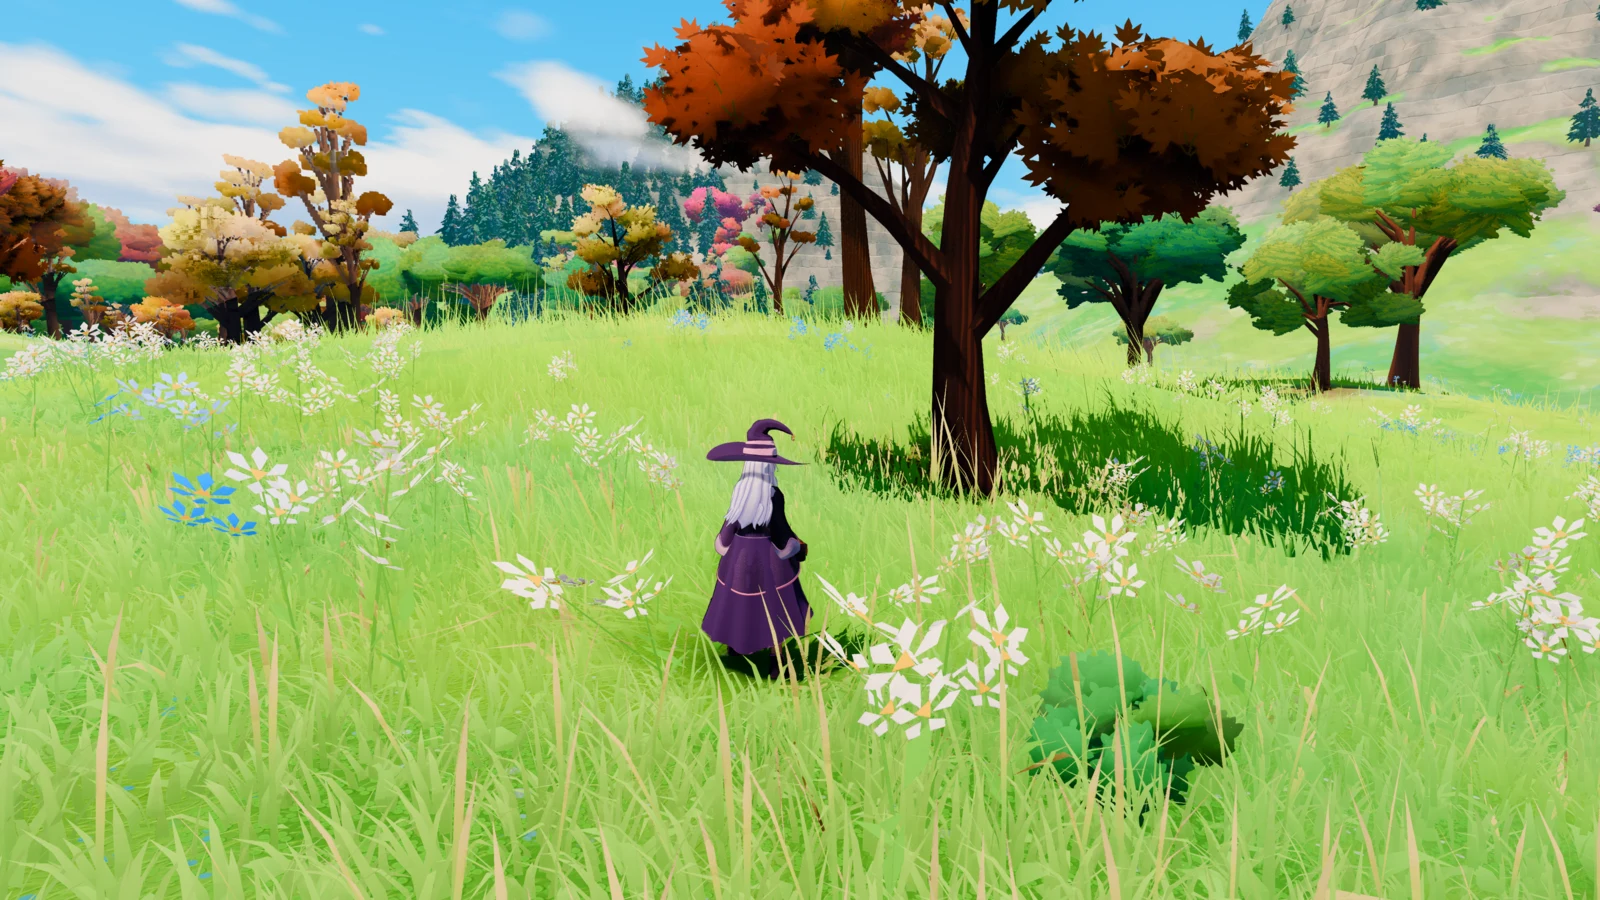
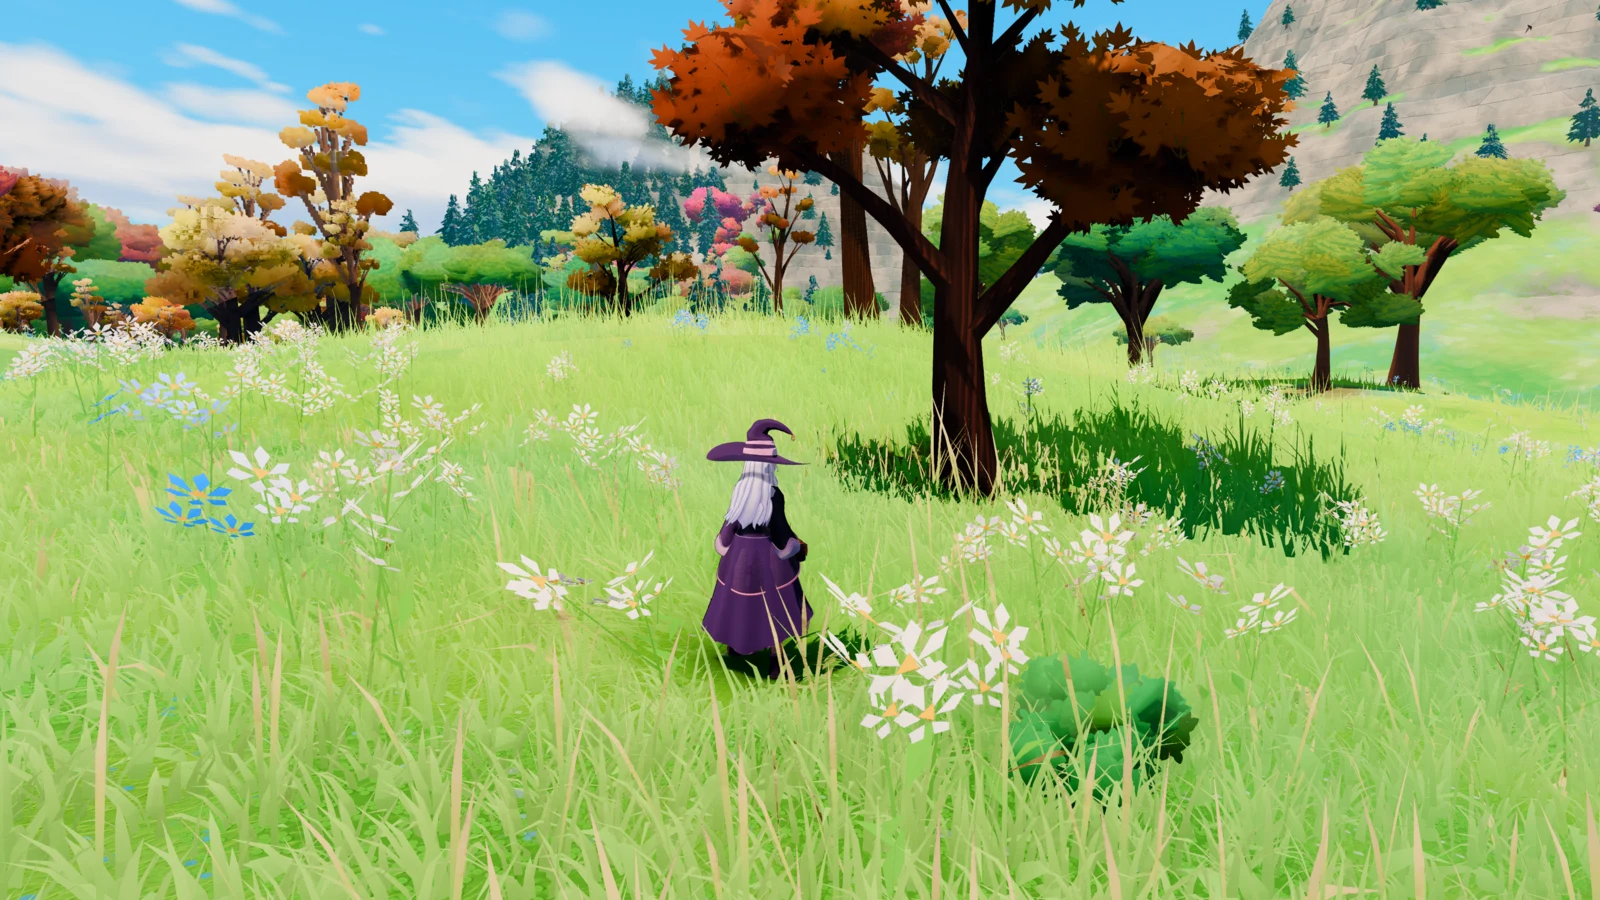
Reduce meadow blade saturation by ten percent

diff --git a/src/world/flora/grass.js b/src/world/flora/grass.js
@@ -458,6 +458,13 @@ vec3 gPos; vec3 gNrm; float gKill = 0.0;
   vGCol = mix(vGCol, vGCol * 1.2 + vec3(0.022, 0.026, 0.016), gSheen * t * 0.7 * (1.0 - .65 * nearGrass));
   // far: the blade becomes a soft stroke of the ground colour, a little lighter toward its tip (never darker than the soil)
   vGCol = mix(vGCol, col * ${GRASS_TOP} * mix(0.98, 1.12, t) * (1.0 + 0.12 * gSheen), far * 0.9 * (1.0 - g.cropK));
+  if (g.cropK < 0.5) {
+    // In linear sRGB, scaling chroma around Rec.709 luminance keeps the blade's brightness.
+    const float grassSaturation = 0.90;
+    const vec3 luma = vec3(.2126, .7152, .0722);
+    vGCol = mix(vec3(dot(vGCol, luma)), vGCol, grassSaturation);
+    tip = mix(vec3(dot(tip, luma)), tip, grassSaturation); // transmitted sunlight uses the same pigment
+  }
   vGCol = mix(vGCol, ${lin(0xe8f4ff)}, smoothstep(0.0, 0.6, g.sc.b) * 0.8);
   float pulse = 0.65 + 0.35 * sin(gTime * 0.9 + root.x * 0.05 + root.y * 0.04);
   vec3 veinC = mix(${lin(0x3de0c0)}, ${lin(0x9c7cff)}, smoothstep(0.3, 0.7, g.n.x));
